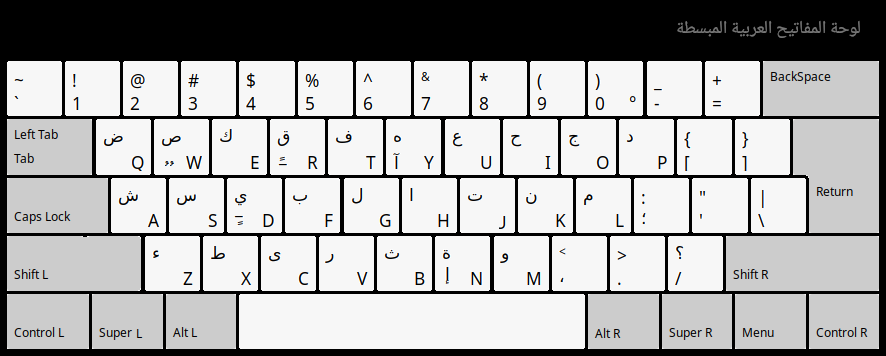
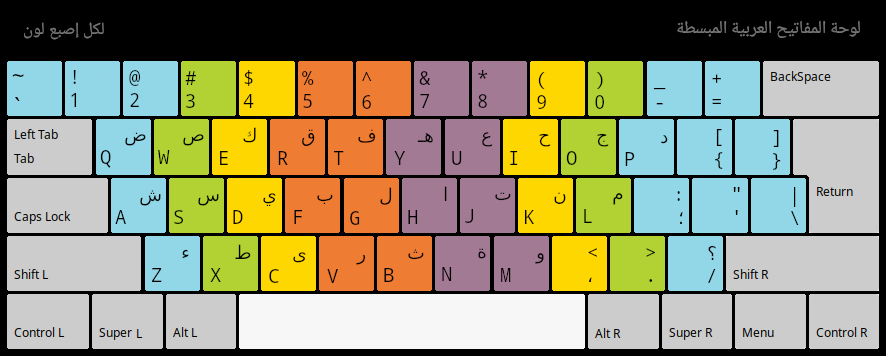
adding arabic README.md, README-English.md, colored ars-qw.png

diff --git a/README.md b/README.md
@@ -1,78 +1,75 @@
-# Simplified Arabic Keyboard Layout (ars) 
+<div dir="rtl" lang="ar">
+# تخطيط لوحة مفاتيح عربية مبسّط (ars)
 
-## Overview
+## نظرة عامة
 
-This repository provides an improved Arabic character layout on the 
-**bilingual QWERTY Arabic-English** keyboard.
+يوفّر هذا المستودع تخطيطًا محسّنًا للأحرف العربية على لوحة مفاتيح **QWERTY ثنائية اللغة (عربية-إنجليزية)**.
 
-The improvements implemented here aim to reduce finger movement and facilitate the memorization of character positions.
+تهدف التحسينات إلى تقليل حركة الأصابع وتسهيل حفظ مواضع الأحرف.
 
-* A first simplification consists of keeping the same keys for all symbol 
-characters and punctuation characters for both Arabic and English keyboards.
-* Another simplification involves placing certain Arabic characters that 
-have the same shape   
-on the same key and using the `SHIFT` key.
-* The Arabic vowels are arranged according to the first letter of the 
-vowel's name.
+* يتمثّل التبسيط الأول في أن مفاتيح الرموز و الأرقام هي نفسها في لوحات العربية والإنجية.
+* تبسيط أخر يكمن في وضع الأحرف العربية المتشابهة على مفتاح واحد، مع استخدام **Shift** للوصول إلى أحدها.
+* رُتّبت الحركات العربية بحسب الحرف الأول من اسم كل حركة.
 
-### The `"ars"` keyboard layout
+### تخطيط لوحة المفاتيح `"ars"`
 
 ![](ars.png)
 
-## Repository Structure
+## بنية المستودع
 
-```
+```text
 .
-├── linux/
-│     └── symbols/
-│           └── ars					# simplified arabic keyboard layout for linux
-│     └── rules/
-│           └── evdev.xml			# for GNOME, Plasma (KDE)
-│     └── xsessionrc				# my ~/.xsessionrc for LXDE 
-│     └── ars-variant.png			# image "ars" variant numbers : ١٢٣٤٥٦٧٨٩٠ 
-├── windows/
-│     └── ars-install/				# simplified arabic keyboard layout for Windows
-│       └── setup.exe ...           # created using MSKLC.exe 
-│     └── arsc-install/...			# "arsc" ("ars" variant) numbers : ١٢٣٤٥٦٧٨٩٠
-│     └── images/ 			        # images 
-├── README.md
-└── ars.png                     
-└── ars-qw.png                      # Layout of the physical Arabic QWERTY keyboard (ars)
-
-
+┤── linux/
+│     ┘── symbols/
+│           ┘── ars                    # تخطيط لوحة مفاتيح عربية مبسّط لنظام Linux
+│     ┘── rules/
+│           ┘── evdev.xml               # لـ GNOME وPlasma (KDE)
+│     ┘── xsessionrc                    # ملف ~/.xsessionrc الخاص بي لـ LXDE
+│     ┘── ars-variant.png               # صورة أرقام النسخة «ars»: ١٢٣٤٥٦٧٨٩٠
+│     ┘── ars-color.png               
+┤── windows/
+│     ┘── ars-install/                  # تخطيط لوحة مفاتيح عربية مبسّط لنظام Windows
+│       ┘── setup.exe ...               # أُنشئ باستخدام MSKLC.exe
+│     ┘── arsc-install/...              # أرقام النسخة «arsc» (إحدى نسخ «ars»): ١٢٣٤٥٦٧٨٩٠
+│     ┘── images/                       # صور
+┤── README.md
+┤── README-English.md
+┘── ars.png
+┘── ars-qw.png                          # تخطيط لوحة مفاتيح QWERTY العربية الفعلية (ars)
 ```
 
-## Quick Start
+## البدء السريع
 
-To implement the `"ars"` keyboard layout 
-
+لتفعيل تخطيط لوحة المفاتيح `"ars"`:
 
 ### Linux
 
-#### GNOME or Plasma (KDE)
-1. Copy the `ars` file to `/usr/share/X11/xkb/symbols/` folder 
-on your local system
-2. Copy the `evdev.xml` file to 
-`/usr/share/X11/xkb/rules/` folder on your local system. 
-3. Run `udevadm trigger --subsystem-match=input --action=change` or reboot 
- 
-#### LXDE
-1. Copy the `ars` file to `/usr/share/X11/xkb/symbols/` folder
-on your local system
-2. Add the command line  
- `setxkbmap "us,ars" -variant ",g" -option "grp:lwin_toggle,grp_led:caps";`  
-to your `~/.xsessionrc` file.
-3. Execute `xrdb -merge ~/.xsessionrc` or reboot
-- Remark : for ars (variant), in 2. replace `",g"` by `",c"` 
- 
-### Windows
-- Copy `ars-install/` folder and execute `setup.exe`.
-- Remark : `"install/"` folder created using `Microsoft Keyboard Layout Creator` (MSKLC.exe)
+#### GNOME أو Plasma (KDE)
 
-### Layout of a physical bilingual Arabic-English QWERTY keyboard `"ars"` 
+1. انسخ الملف `ars` إلى المجلد `/usr/share/X11/xkb/symbols/` على نظامك المحلي.
+2. انسخ الملف `evdev.xml` إلى المجلد `/usr/share/X11/xkb/rules/` على نظامك المحلي.
+3. شغّل الأمر `udevadm trigger --subsystem-match=input --action=change` أو أعد تشغيل النظام.
+
+#### LXDE
+
+1. انسخ الملف `ars` إلى المجلد `/usr/share/X11/xkb/symbols/` على نظامك المحلي.
+2. أضف سطر الأوامر التالي إلى ملف:
+ `~/.xsessionrc`   
+ `setxkbmap "us,ars" -variant "," -option "grp:lwin_toggle,grp_led:caps"`
+3. نفّذ الأمر `xrdb -merge ~/.xsessionrc` أو أعد تشغيل النظام.
+
+- ملاحظة: لاستخدام نسخة `ars`، استبدل `","` في الخطوة 2 بـ `",c"`.
+
+### Windows
+
+- انسخ المجلد `ars-install/` وشغّل `setup.exe`.
+- ملاحظة: أُنشئ المجلد `"install/"` باستخدام `Microsoft Keyboard Layout Creator` (MSKLC.exe).
+
+### تخطيط لوحة مفاتيح QWERTY فعلية ثنائية اللغة (عربية-إنجليزية) `"ars"`
 
 ![](ars-qw.png)
 
-## License
-This repository is licensed under `MIT License`. 
+## الترخيص
 
+هذا المستودع مرخّص بموجب **رخصة MIT**.
+</div>

diff --git a/README-English.md b/README-English.md
@@ -1,0 +1,76 @@
+# Simplified Arabic Keyboard Layout (ars) 
+
+## Overview
+
+This repository provides an improved Arabic character layout for the 
+**bilingual QWERTY Arabic-English** keyboard.
+
+The improvements aim to reduce finger movement and make character positions easier to memorize.
+
+* A first simplification is to use the same keys for symbols
+and punctuation in both the Arabic and English keyboards layouts.
+* Another simplification is to place similarly shaped Arabic characters on the same key, using **Shift** to access one of them. 
+* Arabic vowels are arranged according to the first letter of each vowel's name.
+
+### The `"ars"` keyboard layout
+
+![](ars.png)
+
+## Repository Structure
+
+```
+.
+├── linux/
+│     └── symbols/
+│           └── ars					# simplified Arabic keyboard layout for linux
+│     └── rules/
+│           └── evdev.xml			# for GNOME, Plasma (KDE)
+│     └── xsessionrc				# my ~/.xsessionrc for LXDE 
+│     └── ars-variant.png			# image "ars" variant numbers : ١٢٣٤٥٦٧٨٩٠ 
+│     └── ars-color.png			
+├── windows/
+│     └── ars-install/				# simplified Arabic keyboard layout for Windows
+│       └── setup.exe ...           # created using MSKLC.exe 
+│     └── arsc-install/...			# "arsc" ("ars" variant) numbers : ١٢٣٤٥٦٧٨٩٠
+│     └── images/ 			        # images 
+├── README.md
+├── README-English.md
+└── ars.png                     
+└── ars-qw.png                      # Layout of the physical Arabic QWERTY keyboard (ars)
+
+```
+
+## Quick Start
+
+To implement the `"ars"` keyboard layout 
+
+
+### Linux
+
+#### GNOME or Plasma (KDE)
+1. Copy the `ars` file to `/usr/share/X11/xkb/symbols/` folder 
+on your local system
+2. Copy the `evdev.xml` file to 
+`/usr/share/X11/xkb/rules/` folder on your local system. 
+3. Run `udevadm trigger --subsystem-match=input --action=change` or reboot 
+ 
+#### LXDE
+1. Copy the `ars` file to `/usr/share/X11/xkb/symbols/` folder
+on your local system
+2. Add the command line  
+ `setxkbmap "us,ars" -variant "," -option "grp:lwin_toggle,grp_led:caps";`  
+to your `~/.xsessionrc` file.
+3. Execute `xrdb -merge ~/.xsessionrc` or reboot
+- Remark : for ars (variant), in 2. replace `","` by `",c"` 
+ 
+### Windows
+- Copy `ars-install/` folder and execute `setup.exe`.
+- Remark : `"install/"` folder created using `Microsoft Keyboard Layout Creator` (MSKLC.exe)
+
+### Layout of a physical bilingual Arabic-English QWERTY keyboard `"ars"` 
+
+![](ars-qw.png)
+
+## License
+This repository is licensed under `MIT License`. 
+
